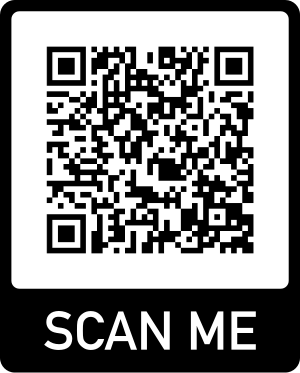
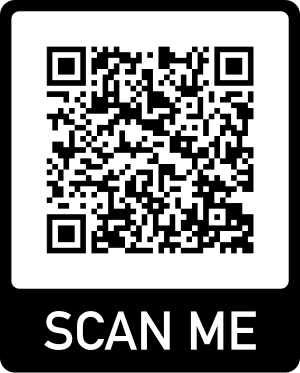
slides once more

Changed region(s): [[0.15, 0.118, 0.63, 0.6783], [0.81, 0.5013, 0.87, 0.5603]]

diff --git a/talks/SlideDecks/slides/Meetup-React.js05022026/slides.md b/talks/SlideDecks/slides/Meetup-React.js05022026/slides.md
@@ -1,8 +1,8 @@
 ---
 title: "React for Enterprise: How Service Injection might fix one of Reacts greatest issues"
-subtitle: "Leipzig.js Meetup - August 2025"
+subtitle: "React.js Meetup - February 2026"
 author: "7Frank"
-date: "2025"
+date: "2026"
 ---
 
 # React for Enterprise
@@ -25,20 +25,20 @@ Note: Hey everyone! Great to have you here on the stream today - we'll start sho
 
 ## WHOAMI
 
-- developing software since 2003 privately or in companies
-- currently employed at [jambit.com](https://www.jambit.com/)
-  - doing fullstack,architecture and ai work
-    - which in other companies would be on the level of technical strategist or principal engineer
-    - mainly focusing on what brings impact
-- collecting tech skills like others collect pokemon
+- Developing software since 2003 in private and corporate settings
+- Currently employed at [jambit.com](https://www.jambit.com/)
+  - Full-stack, architecture, and AI work
+    - Technical strategist/principal engineer level in scope
+    - Focus on high-impact solutions
+- Collecting tech skills like others collect Pokémon
   - [roadmap.sh/u/7frank](https://roadmap.sh/u/7frank)
 
-> but for this presentation important infos are
+> Relevant experience for this presentation
 
-- jquery 2011-2017
-- react since 2018 on and off
-- angular, vue, java
-  - current favorite is svelte 5 with runes api
+- jQuery: 2011-2017
+- React: since 2018 (on and off)
+- Angular, Vue, Java
+  - Current favorite: Svelte 5 with Runes API
 
 Note: Companies: Frelancing, public german televion ARD/MDR, Check24 <br/><br/> I'll try to talk in english for the mayority of the time but might switch back to german in case i need to explain certain more complex details
 

diff --git a/talks/SlideDecks/slides/Meetup-Leipzig.js/slides2.md b/talks/SlideDecks/slides/Meetup-Leipzig.js/slides2.md
@@ -170,7 +170,7 @@ function UserProfile({
 
 > Because we are only using the mechanism react introduced for a problem react created in the first place
 
-Note: This is the inevitable evolution. Every new requirement adds more props, more hooks, more complexity. 
+Note: This is the inevitable evolution. Every new requirement adds more props, more hooks, more complexity.
 
 ---
 
@@ -589,7 +589,7 @@ interface MyServiceInterface {
 @Service()
 class MyService implements MyServiceInterface {
   state = { count: 0 };
-  
+
   increment() {
     this.state.count++;
   }
@@ -655,6 +655,7 @@ Note: I want to hear about your React challenges and discuss how service injecti
 ## Thank You Leipzig.js!
 
 ### Ready to Escape Props Hell?
+
 ### Ready to Escape Props Hell?
 
 **The future of React architecture starts with conversations like this**

diff --git a/talks/SlideDecks/slides/Meetup-React.js05022026/Preparations.md b/talks/SlideDecks/slides/Meetup-React.js05022026/Preparations.md
@@ -4,9 +4,9 @@
 
 - generate new QRCode for presentation link
 
-- focus talk on coupling
+https://www.qrcode-generator.de/
 
-- ensure that example is working with linter
+- add linter slide after testing
 
 - read do something with them and then delete /home/frank/Projects/7frank/tdi2/talks/React.js-Meetup
 
